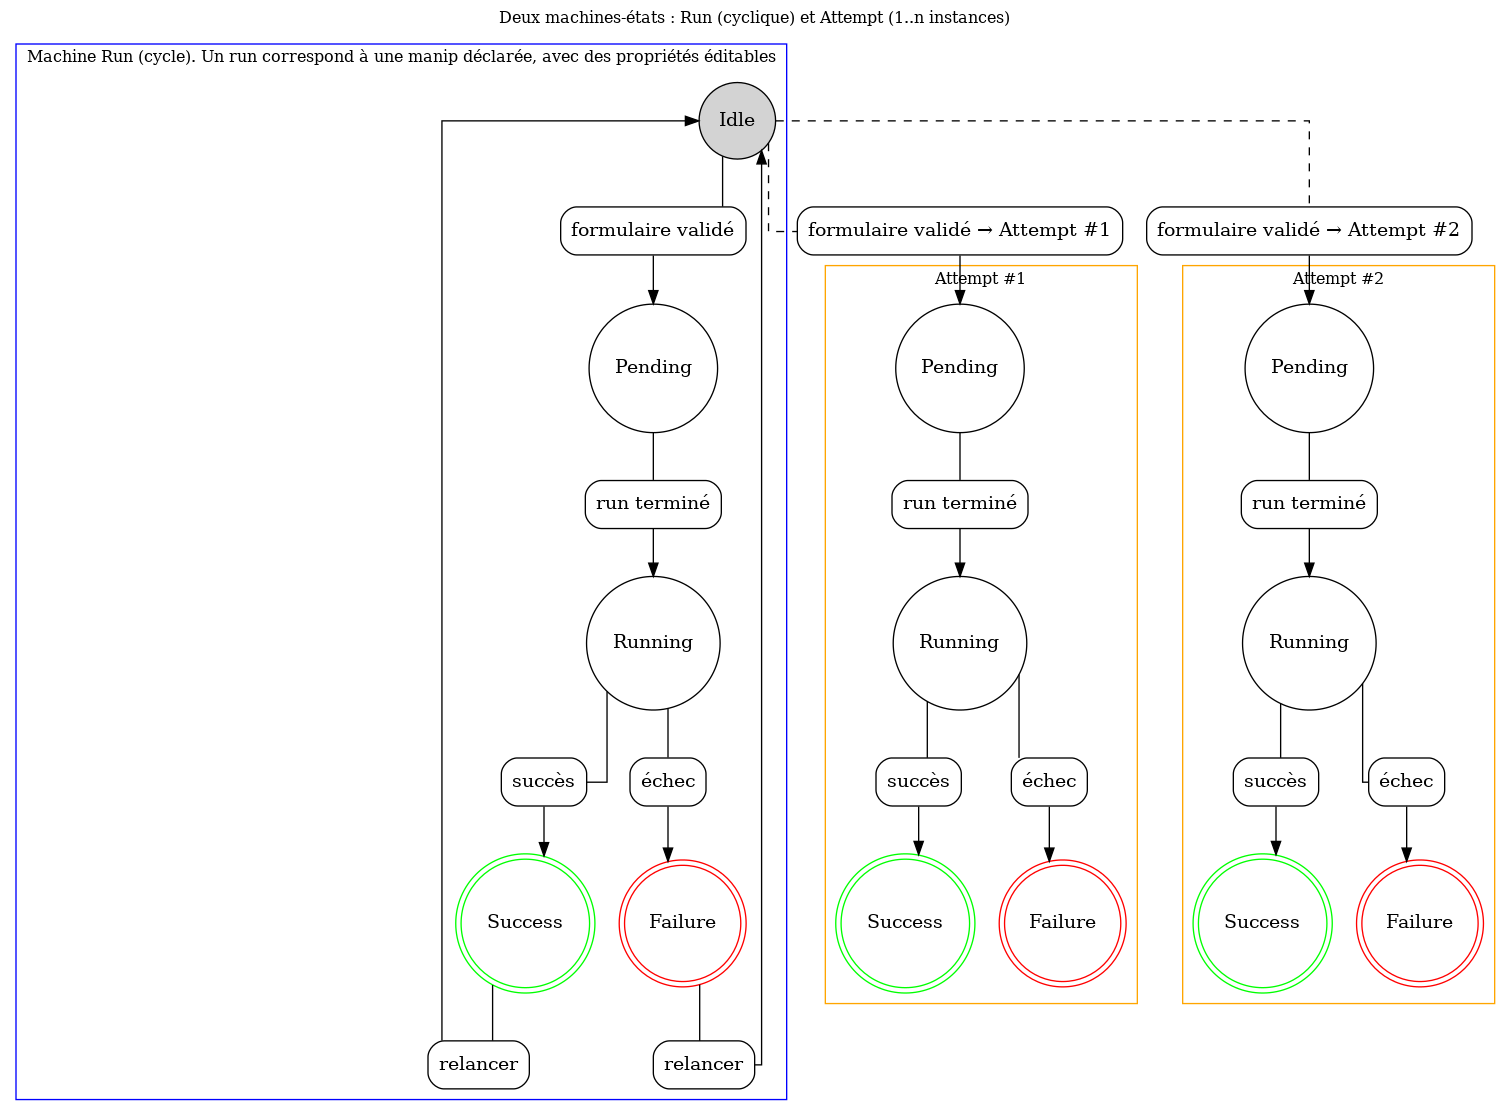
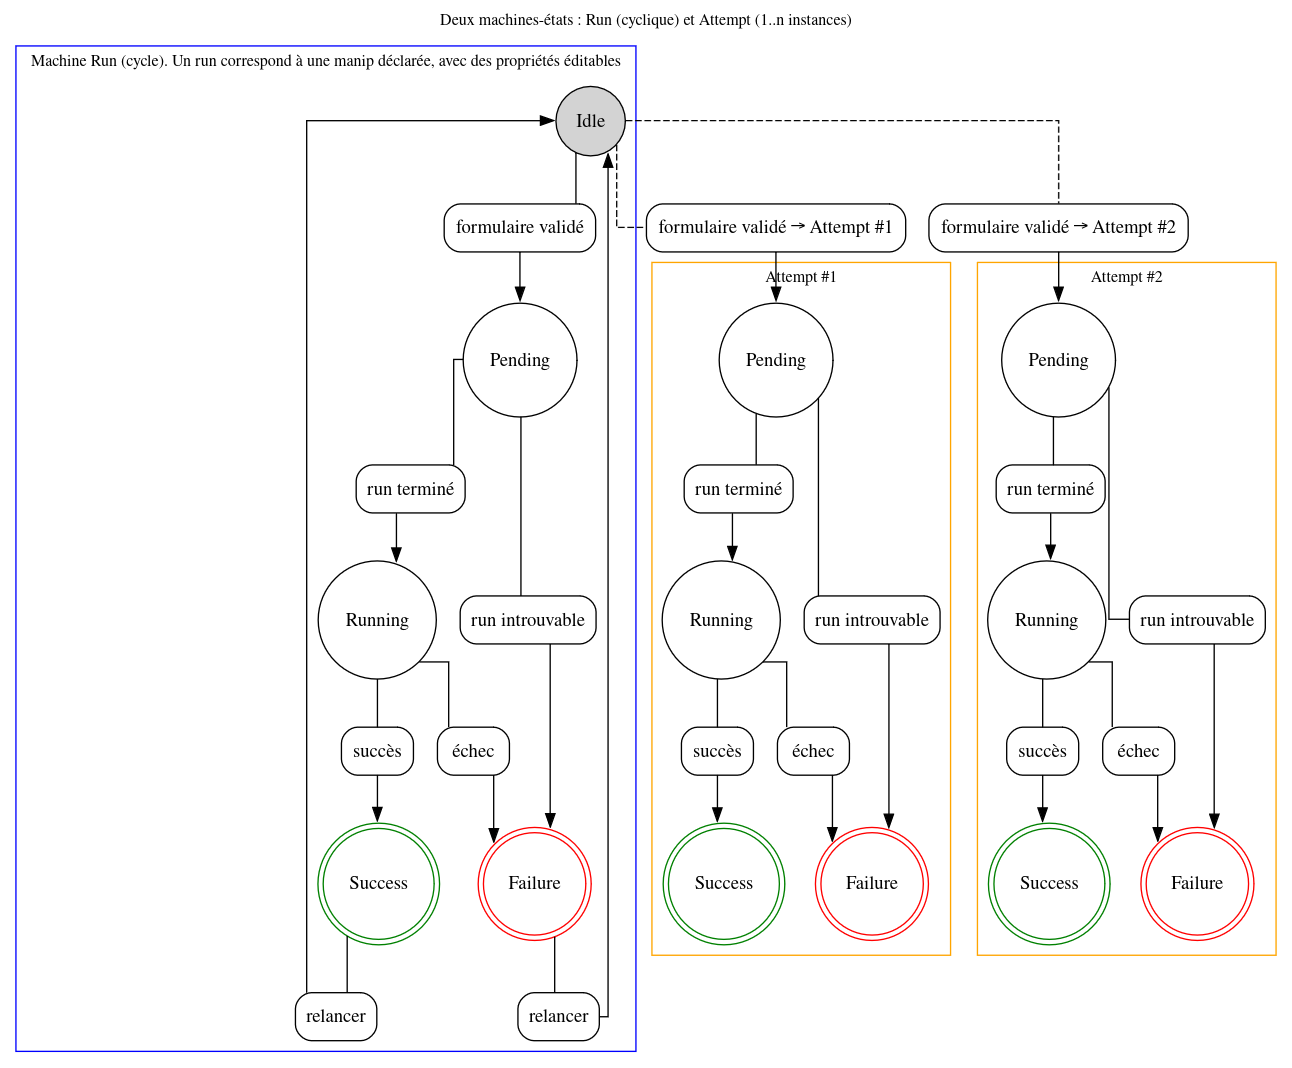
Added support for transition from pending to failure
Provides a way to error out in case a run cannot be found for sure

Changed region(s): [[0.0, 0.0, 0.9907, 0.9888], [0.5573, 0.4944, 0.5882, 0.5253], [0.2786, 0.618, 0.3096, 0.6489]]

diff --git a/src/models/analysis.rs b/src/models/analysis.rs
@@ -93,6 +93,24 @@ pub async fn complete_failure(
         .map_err(AnalysisStateMachineError::from)
 }
 
+/// Transitionne un run en échec si le run est introuvable : Pending -> Failure
+pub async fn fail_run_not_found(
+    run_id: i64,
+    reason: &str,
+    pool: &SqlitePool,
+) -> Result<(), AnalysisStateMachineError> {
+    let run = HgRun::get_run_from_id(run_id, pool).await?;
+    if !matches!(run.status, RunStatus::Pending) {
+        return Err(AnalysisStateMachineError::InvalidTransition {
+            from: run.status.to_string(),
+            to: RunStatus::Failure(reason.to_string()).to_string(),
+        });
+    }
+    super::hgrun::HgRun::complete_failure(run_id, reason, pool).await?;
+    super::attempt::HgAttempt::complete_failure(run_id, reason, pool).await?;
+    Ok(())
+}
+
 /// Commenter une tentative
 pub async fn comment_attempt(
     run_id: i64,
